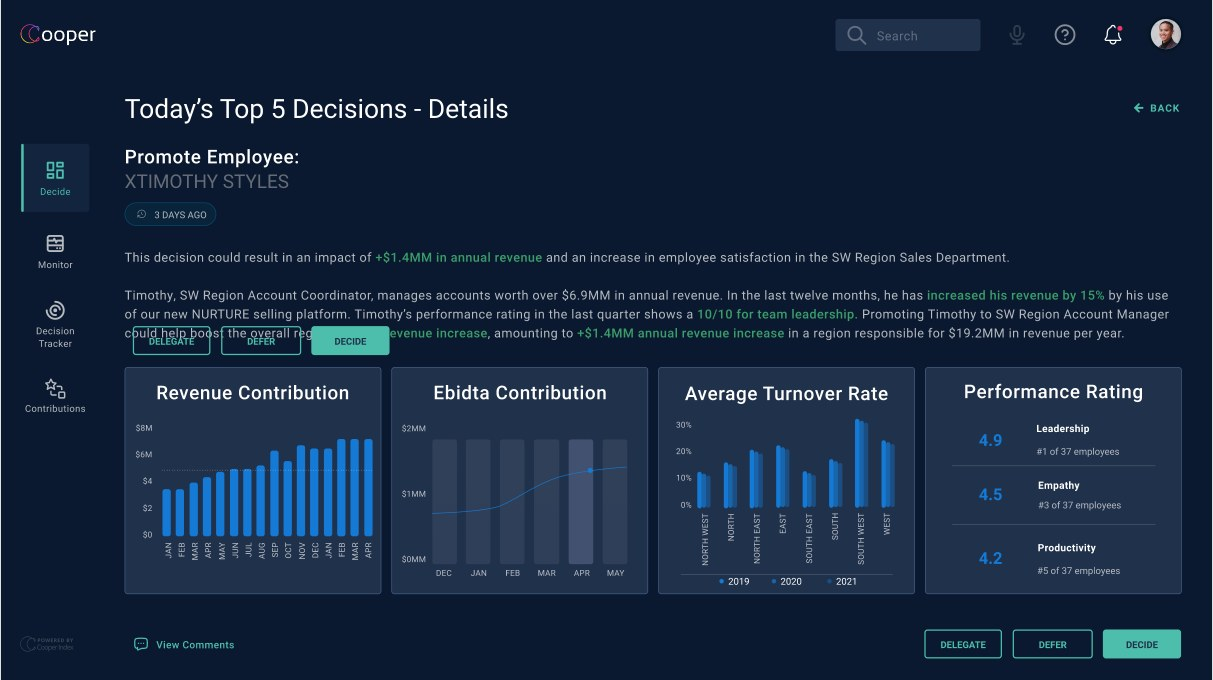
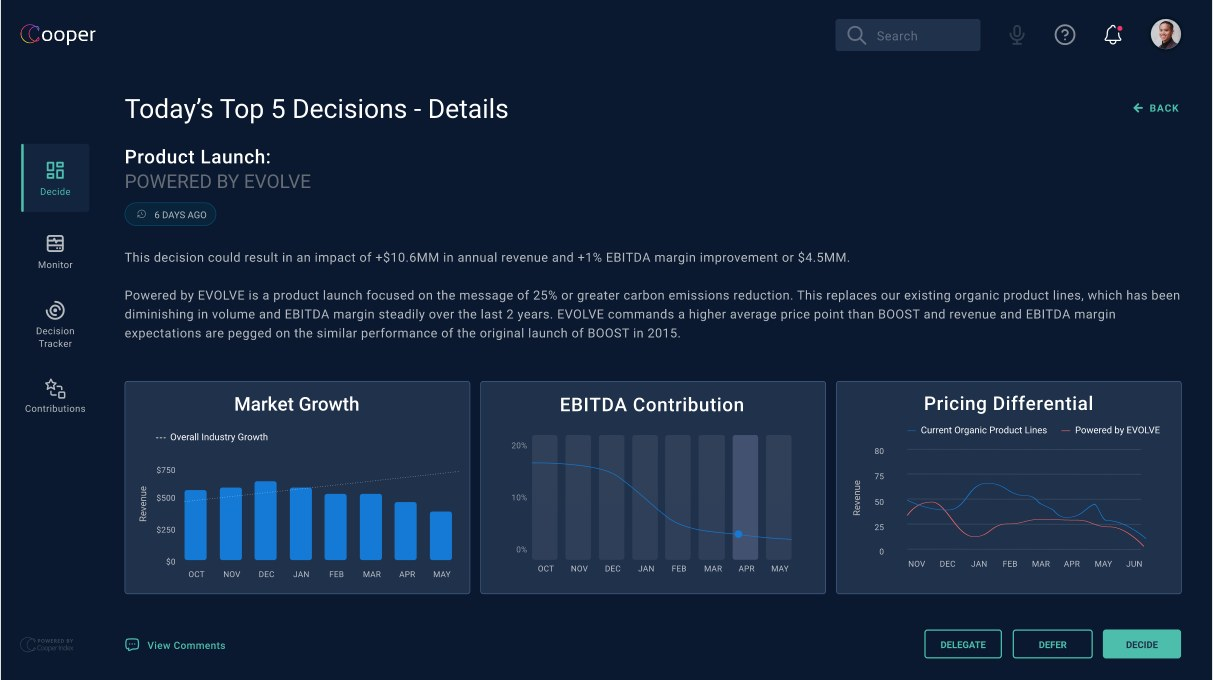
Fix overlapping UI in Cooper case study Decision Details screenshot

diff --git a/src/pages/CaseStudyCooper.jsx b/src/pages/CaseStudyCooper.jsx
@@ -84,7 +84,7 @@ const screens = [
   {
     img: decisionDetails,
     title: 'Decision Details',
-    desc: 'A single decision broken down with revenue, EBITDA, turnover and performance context, so the person deciding has everything on one screen.',
+    desc: 'A single decision broken down with market growth, EBITDA contribution and pricing context, so the person deciding has everything on one screen.',
   },
   {
     img: delegateScreen,
